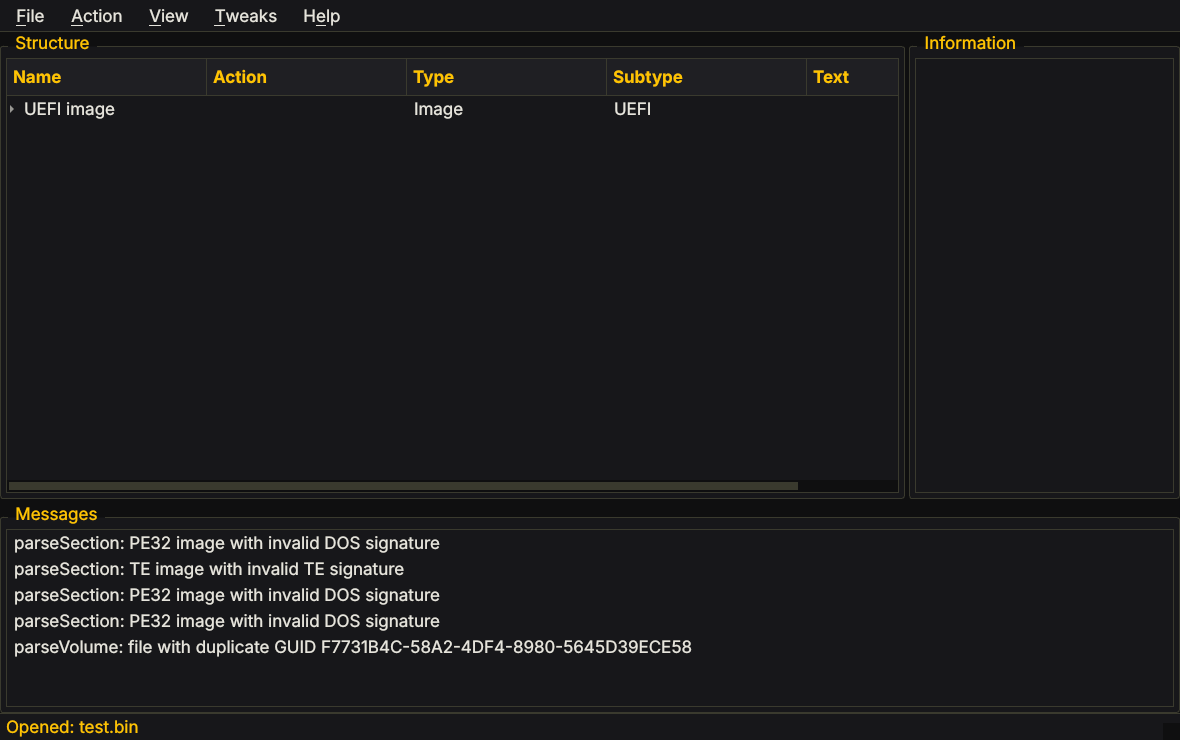
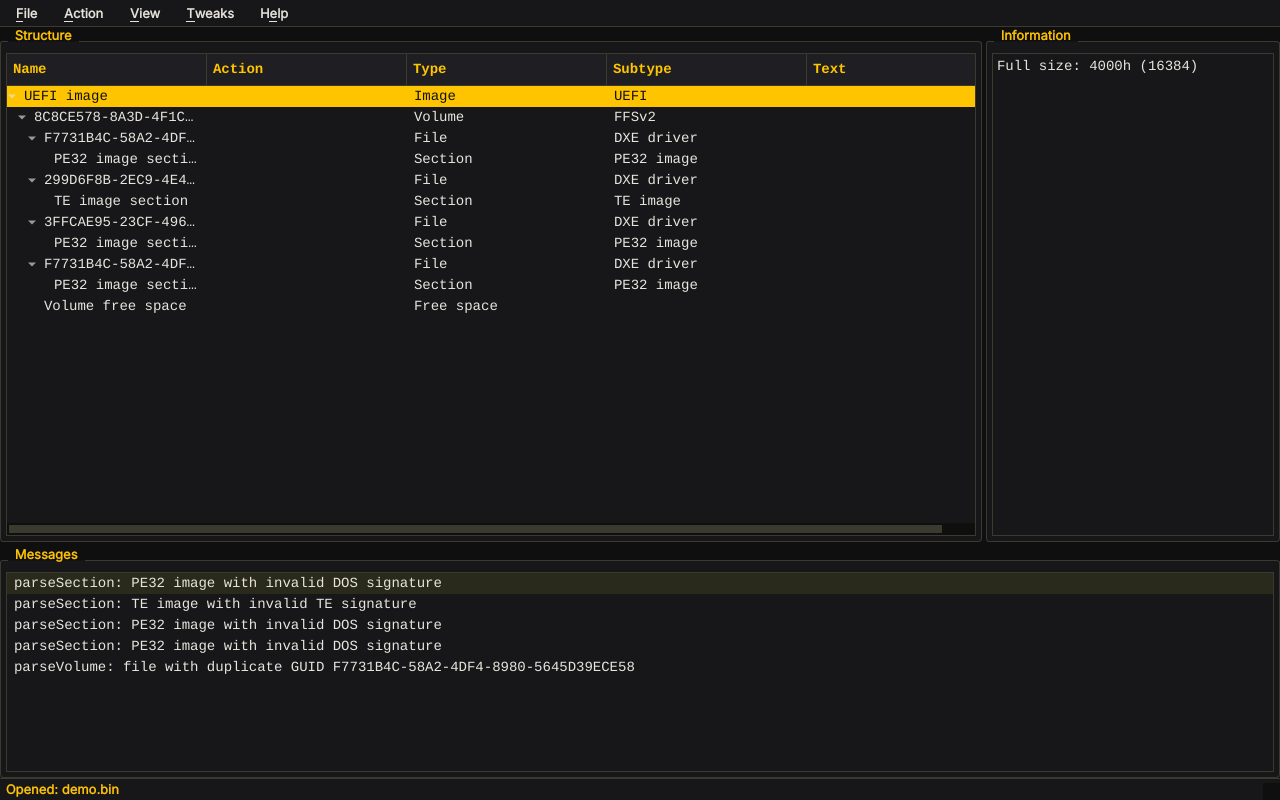
Send the preset report to the Messages list, and shoot the real binary
Two things came out of actually running the built GUI rather than only
rendering its widgets offscreen.

A long preset file path wrapped the source label onto a second line and
pushed the whole list down with it, so the dialog's layout depended on
where the file happened to live. The label now shows the file name with the
full path on its tooltip, and does not wrap.

A QMessageBox detail pane is a small fixed-size area that will not grow, so
the per-line report was only half readable there. The same report now also
goes to the Messages list in the main window, where it scrolls, stays put
while you work, and the existing Copy all messages action can lift it out.

tests/screenshot.sh is new: it builds UEFITool, starts Xvfb with openbox,
runs the real binary and clicks through open -> presets -> tick -> apply
with xdotool, writing the four images used in the documentation. The dialog
is driven from the keyboard where it can be, since pixel coordinates depend
on how the preset names wrap. guicheck's own offscreen renders are now
named offscreen-*.png so the two sets can never be confused or overwrite
each other.

The screenshots show the flow end to end, including the Action column
marking Remove and Replace on both copies of PowerMgmtDxe that the Haswell
pattern matched, which is what "2 patch line(s) applied, changing 3
section(s)" and the all-copies default mean in practice.

37 command line checks and 53 GUI checks still pass, including the
[…]

diff --git a/UEFITool-0.28.0/uefitool.cpp b/UEFITool-0.28.0/uefitool.cpp
@@ -908,6 +908,20 @@ void UEFITool::applyPresets(const QStringList & setIds, bool allCopies)
 
     showMessages();
 
+    // A QMessageBox's detailed text pane is a fixed, small box, so the full
+    // report also goes to the Messages list, where it is scrollable, keeps
+    // its place while you work, and the existing Copy all messages action
+    // can lift it out.
+    ui->messageListWidget->addItem(new MessageListItem(
+        tr("--- presets applied from %1 ---").arg(catalog.sourceName())));
+    for (int i = 0; i < report.count(); i++)
+        ui->messageListWidget->addItem(new MessageListItem(report.at(i)));
+    ui->messageListWidget->addItem(new MessageListItem(
+        tr("--- %1 applied, %2 not matched, %3 section(s) changed ---")
+            .arg(applied).arg(missed).arg(sections)));
+    ui->messageListWidget->scrollToBottom();
+    ui->actionMessagesCopyAll->setEnabled(true);
+
     if (applied == 0) {
         ui->statusBar->showMessage(tr("Not tweaked: no pattern matched this image"));
         QMessageBox box(this);

diff --git a/UEFITool-0.28.0/presetdialog.cpp b/UEFITool-0.28.0/presetdialog.cpp
@@ -53,7 +53,10 @@ PresetDialog::PresetDialog(QWidget *parent) :
 
     sourceLabel = new QLabel(this);
     sourceLabel->setProperty("dim", true);
-    sourceLabel->setWordWrap(true);
+    // Deliberately not wrapped: a long path would reflow onto a second line
+    // and push the whole list down. The file name is what identifies the
+    // catalog anyway, and the full path is on the tooltip.
+    sourceLabel->setWordWrap(false);
 
     tree = new QTreeWidget(this);
     tree->setColumnCount(3);
@@ -232,7 +235,8 @@ void PresetDialog::populate()
     tree->blockSignals(false);
 
     sourceLabel->setText(tr("%1 - %2 preset(s) that can be applied")
-                         .arg(loadedPath).arg(applicableSets));
+                         .arg(QFileInfo(loadedPath).fileName()).arg(applicableSets));
+    sourceLabel->setToolTip(loadedPath);
 
     detail->setHtml(tr("<p>Tick one or more presets, then <b>Apply tweaks</b>. Each preset is a "
                        "group of byte patterns; a pattern is applied only where it actually "

diff --git a/tests/guicheck/guicheck_main.cpp b/tests/guicheck/guicheck_main.cpp
@@ -184,7 +184,7 @@ int main(int argc, char *argv[])
 
     dialog.resize(900, 620);
     dialog.show();
-    check(saveShot(&dialog, outDir + "/preset-dialog.png"), "the preset dialog renders to a PNG");
+    check(saveShot(&dialog, outDir + "/offscreen-preset-dialog.png"), "the preset dialog renders to a PNG");
     dialog.hide();
 
     // --------------------------------------------------------- main window ---
@@ -220,7 +220,7 @@ int main(int argc, char *argv[])
     check(presetsAction && presetsAction->isEnabled(),
           "opening an image enables the presets action");
 
-    check(saveShot(&window, outDir + "/main-window.png"), "the main window renders to a PNG");
+    check(saveShot(&window, outDir + "/offscreen-main-window.png"), "the main window renders to a PNG");
 
     // The theme toggle must take effect without restarting.
     if (themeAction) {

diff --git a/docs/gui-guide.md b/docs/gui-guide.md
@@ -3,6 +3,9 @@
 Two things were added to the UEFITool window: a yellow on black theme, and a
 Tweaks menu that applies groups of patches to the image you have open.
 
+All screenshots here are of the built binary running, driven through the
+flow by `tests/screenshot.sh`, not mock-ups.
+
 ![The main window](images/main-window.png)
 
 ## The theme
@@ -64,9 +67,22 @@ Tweaked.
 Rebuild the image and save it now?
 ```
 
-with a **Show details** button listing every line as applied or missed, and
-Yes taking you straight to Save. Saving is what reconstructs the image, so
-"rebuild and save" is one step.
+![The result](images/tweaked-dialog.png)
+
+**Show Details** lists every line as applied or missed, and Yes takes you
+straight to Save. Saving is what reconstructs the image, so "rebuild and
+save" is one step.
+
+A message box's detail pane is a small fixed box, so the same report also
+goes to the **Messages** list in the main window, where it is scrollable,
+stays put while you work, and the existing *Copy all messages* action can
+lift it out. The Action column shows exactly which sections were touched:
+
+![After applying a preset](images/main-window-tweaked.png)
+
+In that run the Haswell pattern matched both copies of `PowerMgmtDxe` in the
+image, which is what "2 patch line(s) applied, changing 3 section(s)" means
+and what **Patch every copy of a module** does.
 
 If nothing matched, it says so plainly and does not pretend the image
 changed. That is the normal outcome when a preset is for a different
@@ -127,6 +143,19 @@ To add your own, derive the pattern with `tools/msr-lock-scan.py` and
 It shows up in the dialog the next time you open it, under that platform
 heading.
 
+## Screenshots
+
+`tests/screenshot.sh` builds UEFITool, starts a virtual X server, runs the
+real binary under it and clicks through the whole preset flow with xdotool,
+writing the four images in this document to `docs/images/`. It needs
+
+```sh
+apt-get install xvfb openbox xdotool x11-utils imagemagick
+```
+
+on top of Qt. The dialog is driven from the keyboard where it can be, because
+pixel coordinates depend on how the preset names happen to wrap.
+
 ## Testing
 
 `tests/run_gui_tests.sh` builds `tests/guicheck`, which links the same
@@ -142,3 +171,7 @@ performs, writes the result, and diffs it against the image UEFIPatch
 produces from the same preset on the command line. Both go through
 `applyPatchEntry()` in `patchset.cpp`, and the test fails if they ever stop
 agreeing byte for byte.
+
+Its own renders are written as `offscreen-*.png` so they can never be
+confused with, or overwrite, the pictures of the real binary that
+`screenshot.sh` produces.

diff --git a/README.md b/README.md
@@ -10,6 +10,8 @@ Base commit: `d9642c53e7b873fcce858ec2bea577f099b966d5` (tag `0.28.0`).
 
 ![The preset dialog](docs/images/preset-dialog.png)
 
+![After applying a preset](docs/images/main-window-tweaked.png)
+
 ## Kratko (hrvatski)
 
 - **GUI**: nova žuto-crna tema (View -> Yellow on black theme, pamti se) i
@@ -122,9 +124,13 @@ tools/
 tests/
   run_tests.sh       37 command line regression cases
   run_gui_tests.sh   53 GUI checks plus a GUI/CLI byte-for-byte cross-check
+  screenshot.sh      drives the real binary under Xvfb for docs/images
   guicheck/          the headless GUI test program
   make_test_image.py builds the synthetic firmware volume they run against
 ```
+
+The screenshots in this README and in `docs/gui-guide.md` are of the built
+binary running, produced by `tests/screenshot.sh`, not mock-ups.
 
 ## What changed in the tool
 
@@ -160,6 +166,7 @@ that.
 tests/run_tests.sh                      # 37 command line cases
 tests/run_tests.sh /path/to/UEFIPatch   # or test an existing binary
 tests/run_gui_tests.sh                  # 53 GUI cases, no X server needed
+tests/screenshot.sh                     # regenerate docs/images from the real binary
 ```
 
 Both run against a synthetic FFS2 volume built by `tests/make_test_image.py`

diff --git a/docs/tool-changes.md b/docs/tool-changes.md
@@ -257,6 +257,9 @@ Covered at length in [gui-guide.md](gui-guide.md); in summary:
   several volumes is patched in all of them.
 - **Load preset file...** reads any file in the preset format, so patterns
   you derive yourself appear in the list without rebuilding anything.
+- The per-line report goes to the **Messages** list as well as into the
+  result box, because a message box's detail pane is a small fixed-size
+  area and the report is the thing you want to read and keep.
 
 Entries with nothing to apply (the AMD and Graphics groups) are shown as
 notes, not as tickable presets. There are no upstream byte patterns for
@@ -335,6 +338,12 @@ ok    the GUI and UEFIPatch produce a byte-identical image
 
 GUI tests passed.
 ```
+
+`tests/screenshot.sh` is the other half: it builds UEFITool, runs the real
+binary under Xvfb with openbox and clicks through the preset flow with
+xdotool, so the pictures in the documentation are of the program itself.
+guicheck's own offscreen renders are named `offscreen-*.png` so the two
+can not be confused.
 
 ## Not done
 
